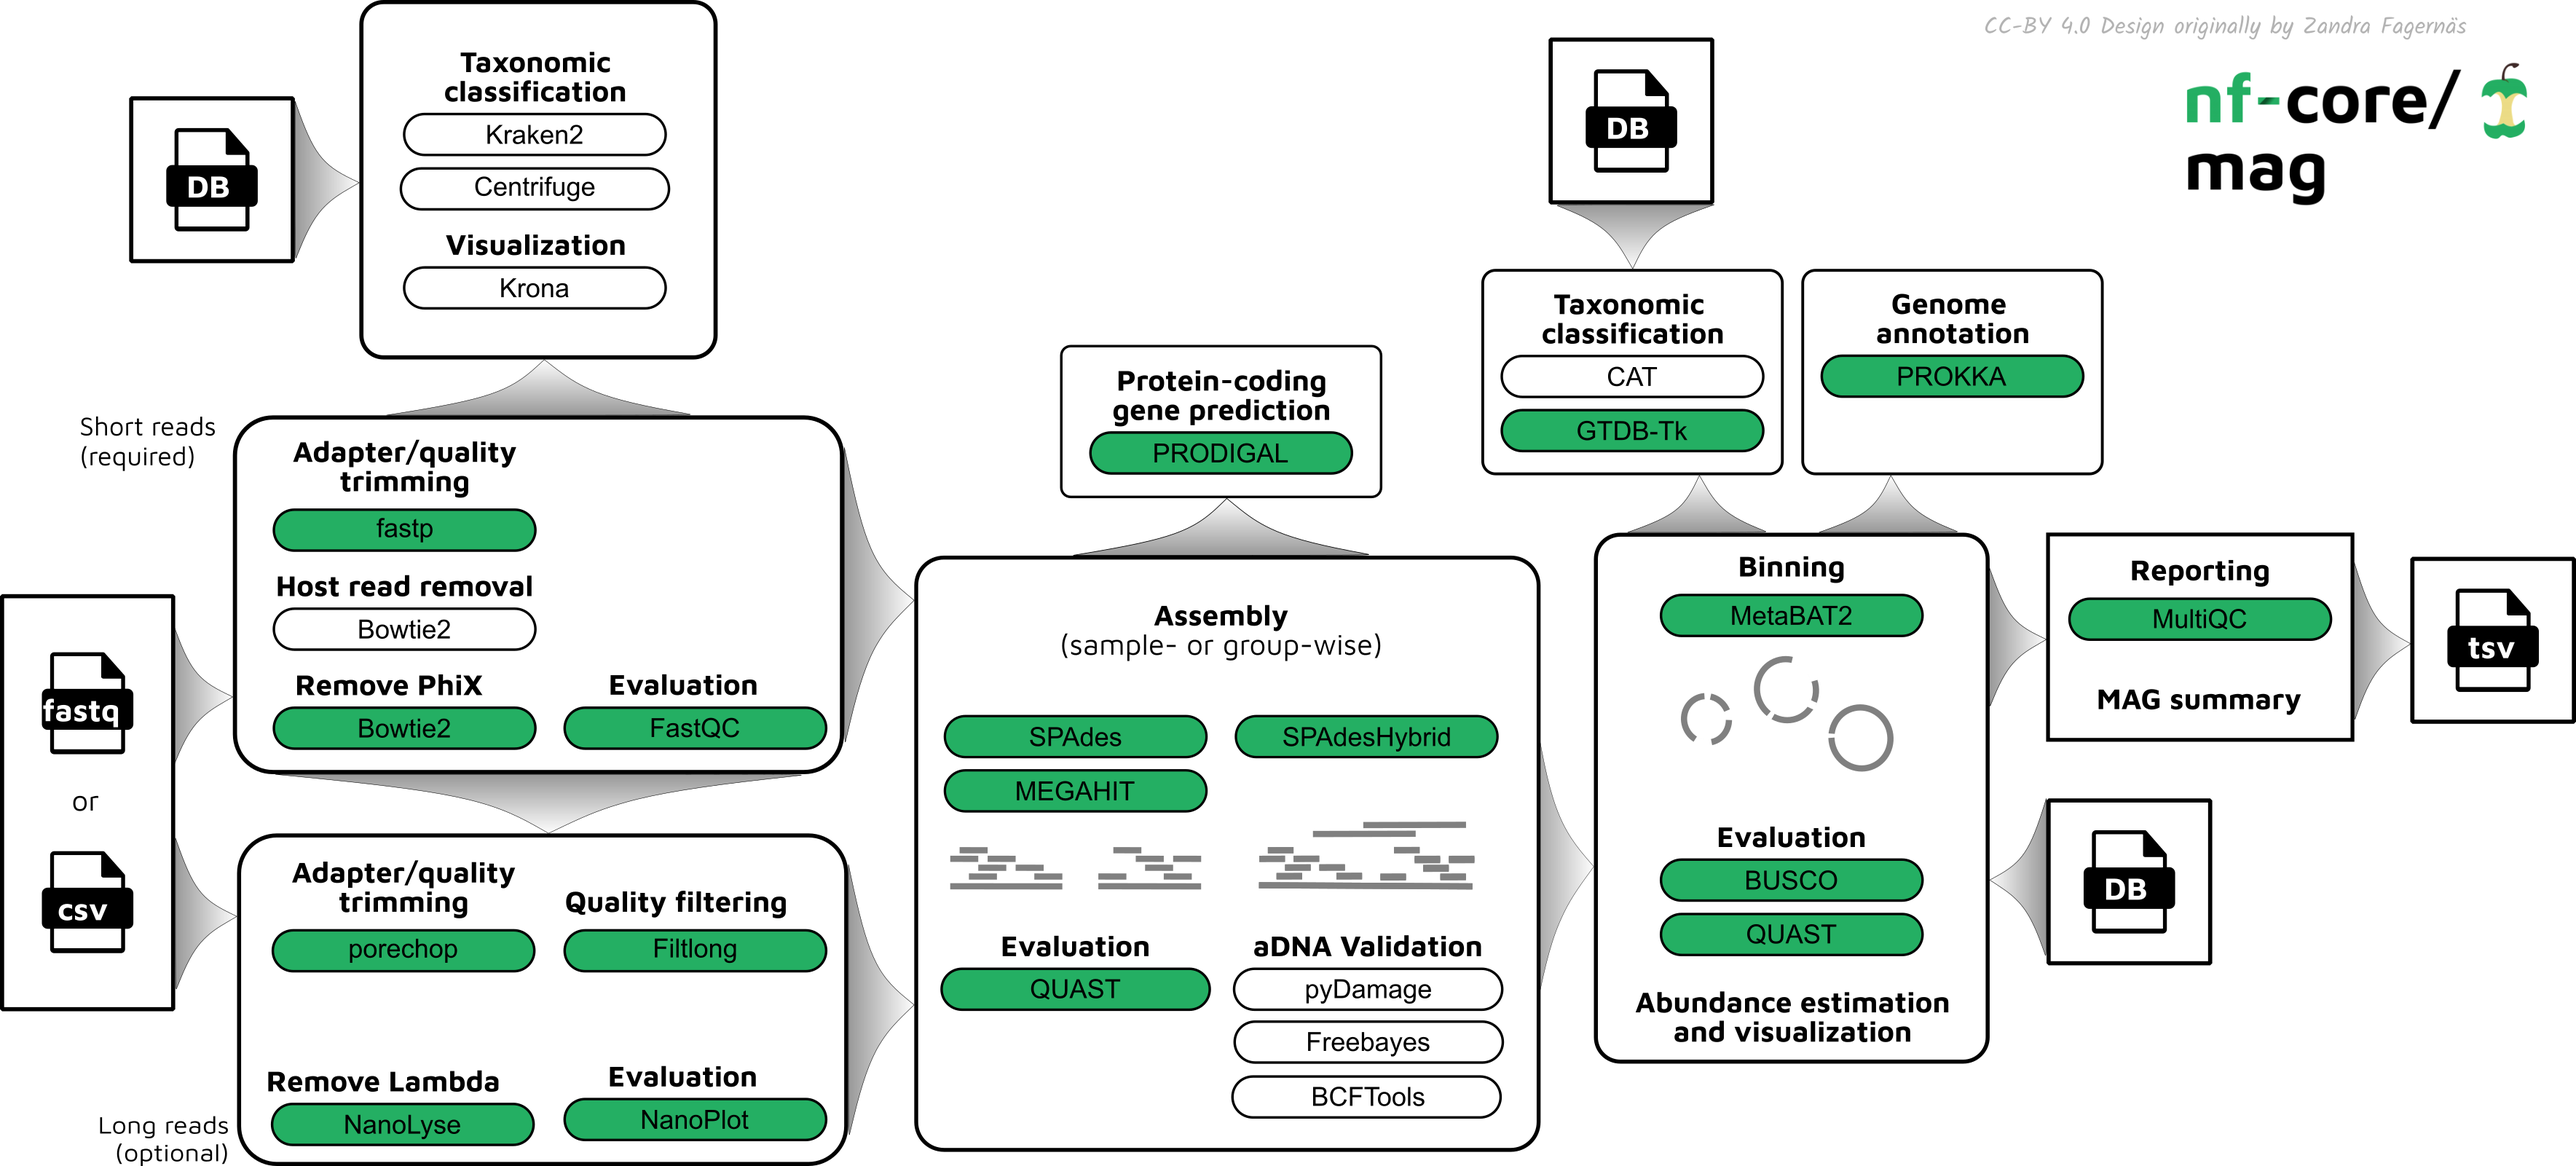
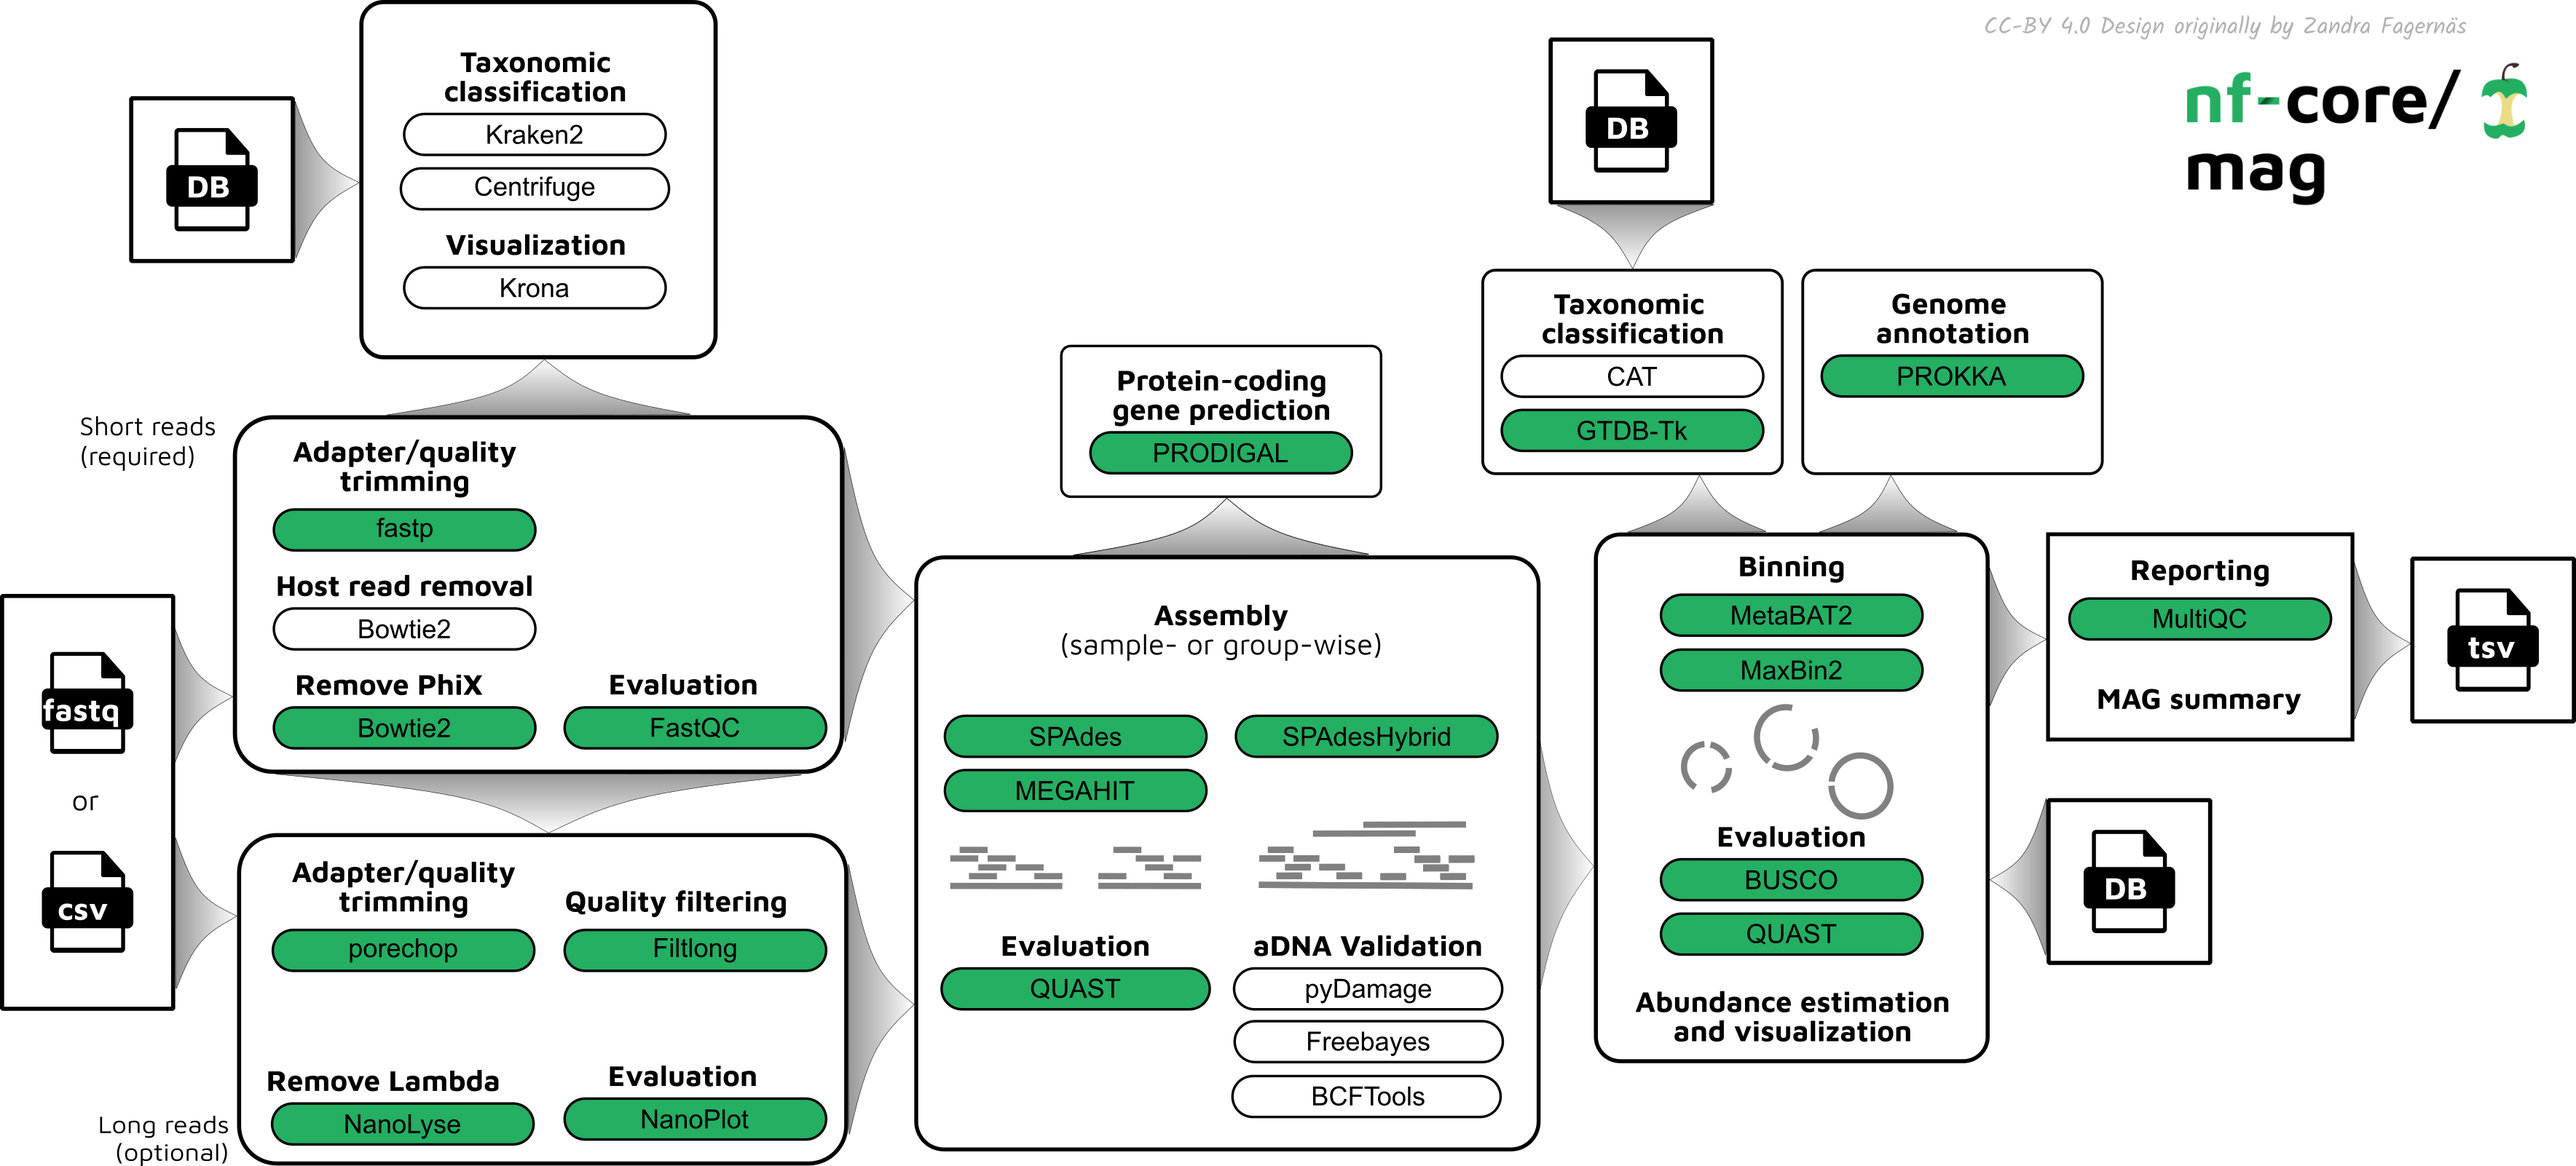
README, Changelog, Citations, Update workflow diagram

diff --git a/README.md b/README.md
@@ -36,7 +36,7 @@ The pipeline then:
 * performs assembly using [MEGAHIT](https://github.com/voutcn/megahit) and [SPAdes](http://cab.spbu.ru/software/spades/), and checks their quality using [Quast](http://quast.sourceforge.net/quast)
 * (optionally) performs ancient DNA assembly validation using [PyDamage](https://github.com/maxibor/pydamage) and contig consensus sequence recalling with [Freebayes](https://github.com/freebayes/freebayes) and [BCFtools](http://samtools.github.io/bcftools/bcftools.html)
 * predicts protein-coding genes for the assemblies using [Prodigal](https://github.com/hyattpd/Prodigal)
-* performs metagenome binning using [MetaBAT2](https://bitbucket.org/berkeleylab/metabat/src/master/), and checks the quality of the genome bins using [Busco](https://busco.ezlab.org/)
+* performs metagenome binning using [MetaBAT2](https://bitbucket.org/berkeleylab/metabat/src/master/) and/or with [MaxBin2](https://sourceforge.net/projects/maxbin2/), and checks the quality of the genome bins using [Busco](https://busco.ezlab.org/)
 * assigns taxonomy to bins using [GTDB-Tk](https://github.com/Ecogenomics/GTDBTk) and/or [CAT](https://github.com/dutilh/CAT)
 
 Furthermore, the pipeline creates various reports in the results directory specified, including a [MultiQC](https://multiqc.info/) report summarizing some of the findings and software versions.

diff --git a/CITATIONS.md b/CITATIONS.md
@@ -44,6 +44,9 @@
 * [Krona](https://doi.org/10.1186/1471-2105-12-385)
     > Ondov, B. D., Bergman, N. H., & Phillippy, A. M. (2011). Interactive metagenomic visualization in a Web browser. BMC bioinformatics, 12(1), 1-10. doi: 10.1186/1471-2105-12-385.
 
+* [MaxBin2](https://doi.org/10.1093/bioinformatics/btv638)
+    > Yu-Wei, W., Simmons, B. A. & Singer, S. W. (2015) MaxBin 2.0: An Automated Binning Algorithm to Recover Genomes from Multiple Metagenomic Datasets. Bioinformatics  32 (4): 605–7. doi: 10.1093/bioinformatics/btv638.
+
 * [MEGAHIT](https://doi.org/10.1016/j.ymeth.2016.02.020)
     > Li, D., Luo, R., Liu, C. M., Leung, C. M., Ting, H. F., Sadakane, K., ... & Lam, T. W. (2016). MEGAHIT v1. 0: a fast and scalable metagenome assembler driven by advanced methodologies and community practices. Methods, 102, 3-11. doi: 10.1016/j.ymeth.2016.02.020.
 

diff --git a/CHANGELOG.md b/CHANGELOG.md
@@ -9,6 +9,8 @@ and this project adheres to [Semantic Versioning](https://semver.org/spec/v2.0.0
 
 - [#263](https://github.com/nf-core/mag/pull/263) - Restructure binning subworkflow in preparation for aDNA workflow and extended binning
 - [#247](https://github.com/nf-core/mag/pull/247) - Add ancient DNA subworkflow
+- [#263](https://github.com/nf-core/mag/pull/263) - Add MaxBin2 as second contig binning tool
+
 
 ### `Changed`
 
